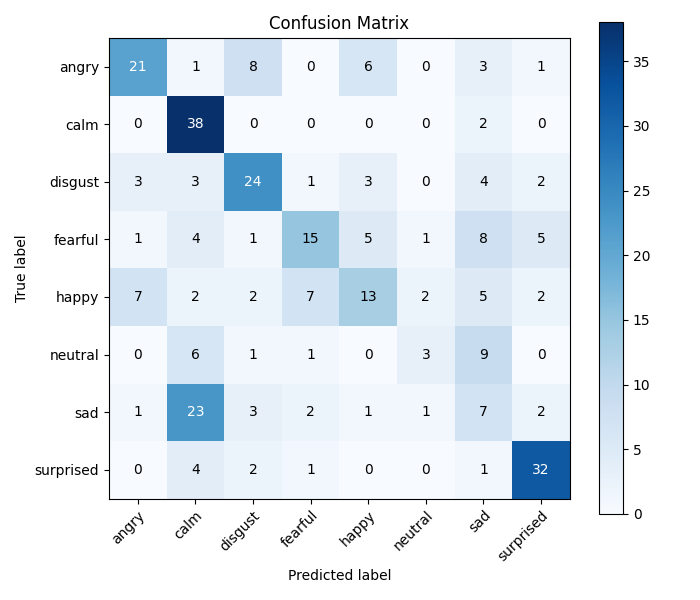
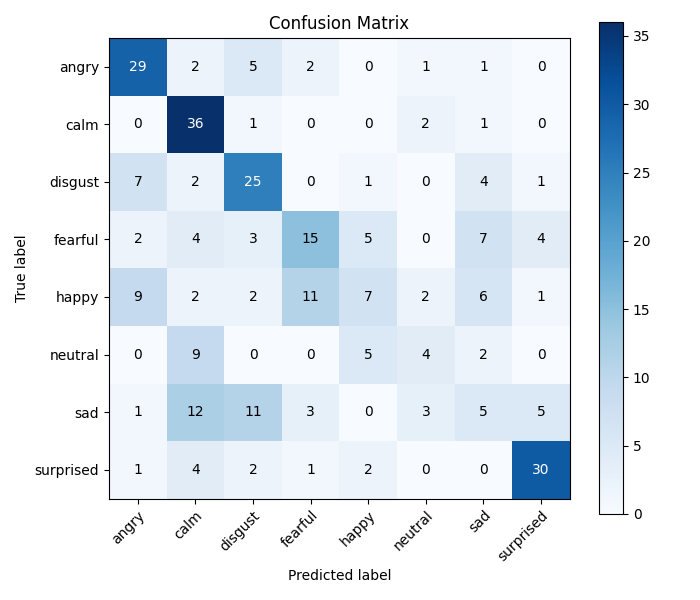
Add data augmentations

diff --git a/src/utils.py b/src/utils.py
@@ -7,6 +7,37 @@ import matplotlib.pyplot as plt
 from sklearn.metrics import confusion_matrix
 import itertools
 
+def plot_train_curve(train_loss_epochs, val_loss_epochs, plot_type):
+    epochs = range(1, len(train_loss_epochs) + 1)
+    plt.figure(figsize=(10, 6))
+    plt.plot(epochs, train_loss_epochs, label='Training Loss', color='blue', linewidth=2)
+    plt.plot(epochs, val_loss_epochs, label='Validation Loss', color='orange', linewidth=2)
+    plt.title(f'Model Training and Validation {plot_type} Over Epochs', fontsize=16)
+    plt.xlabel('Epoch', fontsize=14)
+    plt.ylabel('Loss', fontsize=14)
+    plt.legend(fontsize=12)
+    plt.grid(True, linestyle='--', alpha=0.6)
+    plt.xticks(epochs[::max(1, len(epochs) // 10)])
+    plt.tight_layout()
+    plt.savefig(f'./figs/training_curve_{plot_type}.png')
+
+def draw_confusion_matrix_heatmap(test_labels, test_preds, label_encoder):
+    cm = confusion_matrix(test_labels, test_preds)
+    fig, ax = plt.subplots(figsize=(7,6))
+    im = ax.imshow(cm, interpolation='nearest', cmap=plt.cm.Blues)
+    ax.figure.colorbar(im, ax=ax)
+    ax.set(xticks=np.arange(cm.shape[1]),
+        yticks=np.arange(cm.shape[0]),
+        xticklabels=list(label_encoder.classes_), yticklabels=list(label_encoder.classes_),
+        ylabel='True label', xlabel='Predicted label', title='Confusion Matrix')
+    plt.setp(ax.get_xticklabels(), rotation=45, ha="right", rotation_mode="anchor")
+    thresh = cm.max() / 2.0
+    for i, j in itertools.product(range(cm.shape[0]), range(cm.shape[1])):
+        ax.text(j, i, format(cm[i, j], 'd'),
+                ha="center", va="center",
+                color="white" if cm[i, j] > thresh else "black")
+    plt.tight_layout()
+    plt.savefig(f'./figs/confusion_matrix.png')
 
 def parse_ravdess_filename(fname: str):
     # Example: 03-01-06-01-02-01-12.wav
@@ -98,34 +129,60 @@ def spec_augment(mel, freq_mask_param=12, time_mask_param=12, p=0.5):
     mel[:, t0:t0+t] = mel.min()
     return mel
 
-def plot_train_curve(train_loss_epochs, val_loss_epochs, plot_type):
-    epochs = range(1, len(train_loss_epochs) + 1)
-    plt.figure(figsize=(10, 6))
-    plt.plot(epochs, train_loss_epochs, label='Training Loss', color='blue', linewidth=2)
-    plt.plot(epochs, val_loss_epochs, label='Validation Loss', color='orange', linewidth=2)
-    plt.title(f'Model Training and Validation {plot_type} Over Epochs', fontsize=16)
-    plt.xlabel('Epoch', fontsize=14)
-    plt.ylabel('Loss', fontsize=14)
-    plt.legend(fontsize=12)
-    plt.grid(True, linestyle='--', alpha=0.6)
-    plt.xticks(epochs[::max(1, len(epochs) // 10)])
-    plt.tight_layout()
-    plt.savefig(f'./figs/training_curve_{plot_type}.png')
+def add_noise(y, noise_scale=(0.01, 0.05)):
+    if y.size == 0:
+        return y
+    scale = np.random.uniform(*noise_scale)
+    noise = np.random.randn(len(y)) * scale
+    return y + noise
 
-def draw_confusion_matrix_heatmap(test_labels, test_preds, label_encoder):
-    cm = confusion_matrix(test_labels, test_preds)
-    fig, ax = plt.subplots(figsize=(7,6))
-    im = ax.imshow(cm, interpolation='nearest', cmap=plt.cm.Blues)
-    ax.figure.colorbar(im, ax=ax)
-    ax.set(xticks=np.arange(cm.shape[1]),
-        yticks=np.arange(cm.shape[0]),
-        xticklabels=list(label_encoder.classes_), yticklabels=list(label_encoder.classes_),
-        ylabel='True label', xlabel='Predicted label', title='Confusion Matrix')
-    plt.setp(ax.get_xticklabels(), rotation=45, ha="right", rotation_mode="anchor")
-    thresh = cm.max() / 2.0
-    for i, j in itertools.product(range(cm.shape[0]), range(cm.shape[1])):
-        ax.text(j, i, format(cm[i, j], 'd'),
-                ha="center", va="center",
-                color="white" if cm[i, j] > thresh else "black")
-    plt.tight_layout()
-    plt.savefig(f'./figs/confusion_matrix.png')
+def random_gain(y, gain_range=(-6, 6)):
+    # gain_range in dB
+    if y.size == 0:
+        return y
+    db = np.random.uniform(*gain_range)
+    factor = 10 ** (db / 20)
+    return y * factor
+
+def random_time_stretch(y, low=0.9, high=1.1):
+    if y.size == 0:
+        return y
+    rate = np.random.uniform(low, high)
+    return librosa.effects.time_stretch(y, rate=rate)
+
+def random_pitch_shift(y, sr, semitones=(-2, 2)):
+    if y.size == 0:
+        return y
+    steps = np.random.uniform(*semitones)
+    if abs(steps) < 0.1:
+        return y
+    return librosa.effects.pitch_shift(y, sr=sr, n_steps=steps)
+
+def augment_waveform(y, sr):
+    if np.random.rand() < 0.5:
+        y = add_noise(y)
+    if np.random.rand() < 0.5:
+        y = random_gain(y)
+    if np.random.rand() < 0.3:
+        y = random_time_stretch(y, 0.9, 1.1)
+    if np.random.rand() < 0.3:
+        y = random_pitch_shift(y, sr, (-2, 2))
+    return y
+
+def pad_or_crop(y, sr, duration, train_mode=False):
+    target_len = int(sr * duration)
+    if len(y) < target_len:
+        pad = target_len - len(y)
+        left = pad // 2
+        right = pad - left
+        y = np.pad(y, (left, right), mode='constant')
+    elif len(y) > target_len:
+        if train_mode:
+            # random crop during training
+            max_start = len(y) - target_len
+            start = np.random.randint(0, max_start + 1)
+        else:
+            # center crop for val/test
+            start = (len(y) - target_len) // 2
+        y = y[start:start+target_len]
+    return y

diff --git a/src/dataset.py b/src/dataset.py
@@ -13,16 +13,32 @@ class RavdessMelDataset(Dataset):
     def __getitem__(self, idx):
         row = self.df.iloc[idx]
         path = row["path"]
-        y = load_mono(path, sr=TARGET_SR)
-        y = pad_or_crop(y, sr=TARGET_SR, duration=DURATION_S)
-        mel = wav_to_logmel(y, sr=TARGET_SR, n_mels=N_MELS, n_fft=FFT, hop_length=HOP)
+
+        y, _ = librosa.load(path, sr=TARGET_SR, mono=True)
+        y, _ = librosa.effects.trim(y, top_db=30)
+        maxv = np.max(np.abs(y)) if y.size else 1.0
+        if maxv > 0:
+            y = y / maxv
+
+        # waveform augmentations (train only)
         if self.train_mode:
-            mel = spec_augment(mel, p=0.5)
-        # standardize per-sample
+            y = augment_waveform(y, sr=TARGET_SR)
+
+        # pad / crop with random crop in train mode
+        y = pad_or_crop(y, sr=TARGET_SR, duration=DURATION_S, train_mode=self.train_mode)
+
+        # mel spectrogram ---
+        mel = wav_to_logmel(y, sr=TARGET_SR, n_mels=N_MELS, n_fft=FFT, hop_length=HOP)
+
+        # SpecAugment on spectrogram (train only)
+        if self.train_mode:
+            mel = spec_augment(mel, p=0.7)
+
+        # per-sample standardization
         mean = mel.mean()
         std = mel.std() + 1e-6
         mel = (mel - mean) / std
-        # to torch tensor [1, n_mels, T]
+
         x = torch.tensor(mel, dtype=torch.float32).unsqueeze(0)
         label = int(row["y"])
         return x, label

diff --git a/README.md b/README.md
@@ -16,7 +16,7 @@ Citation:
 Note: dataset should be downloaded as zip and extracted into `./data` directory
 
 # Setup guide
-1. Clone repo: `git clone `
+1. Clone repo: `git clone https://github.com/TheNgith/RAVDESS.git`
 2. Install `uv` (if not yet): `curl -LsSf https://astral.sh/uv/install.sh | sh`
 3. Setup env: `uv sync`
 4. Activate env: `source .venv/bin/activate`
@@ -29,25 +29,25 @@ Note: dataset should be downloaded as zip and extracted into `./data` directory
 Plots are saved in `figs/`
 
 # Benchmarking results
-- Test accuracy: **51.03%**
-- Test loss: 1.4173
+- Test accuracy: **50.30%**
+- Test loss: 1.3491
 - Miscellaneous notes:
     - Trained on Macbook Pro M4 with GPU
-    - Per-epoch avg. runtime: 9.92 sec 
+    - Per-epoch avg. runtime: 12.73 sec 
 ```
 Classification report:
               precision    recall  f1-score   support
 
-       angry      0.636     0.525     0.575        40
-        calm      0.469     0.950     0.628        40
-     disgust      0.585     0.600     0.593        40
-     fearful      0.556     0.375     0.448        40
-       happy      0.464     0.325     0.382        40
-     neutral      0.429     0.150     0.222        20
-         sad      0.179     0.175     0.177        40
-   surprised      0.727     0.800     0.762        40
+       angry      0.592     0.725     0.652        40
+        calm      0.507     0.900     0.649        40
+     disgust      0.510     0.625     0.562        40
+     fearful      0.469     0.375     0.417        40
+       happy      0.350     0.175     0.233        40
+     neutral      0.333     0.200     0.250        20
+         sad      0.192     0.125     0.152        40
+   surprised      0.732     0.750     0.741        40
 
-    accuracy                          0.510       300
-   macro avg      0.506     0.488     0.473       300
-weighted avg      0.511     0.510     0.490       300
+    accuracy                          0.503       300
+   macro avg      0.461     0.484     0.457       300
+weighted avg      0.469     0.503     0.471       300
 ```
